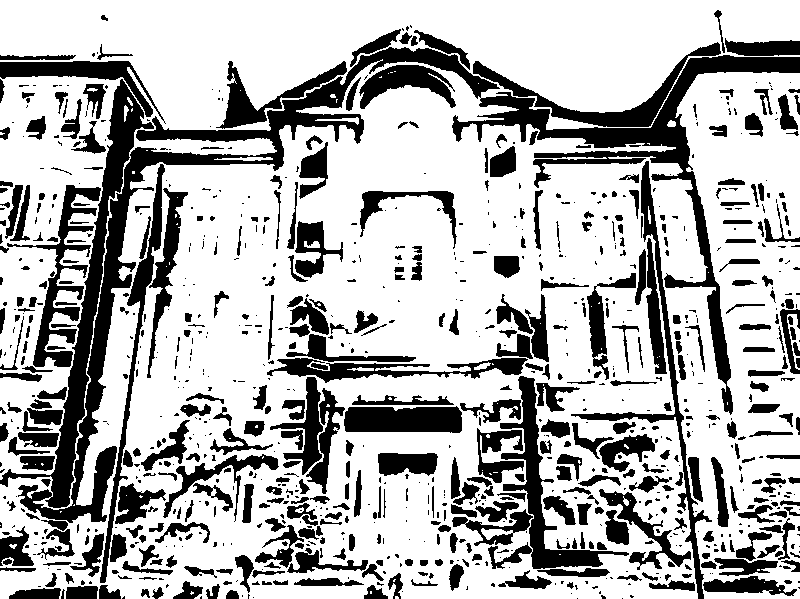
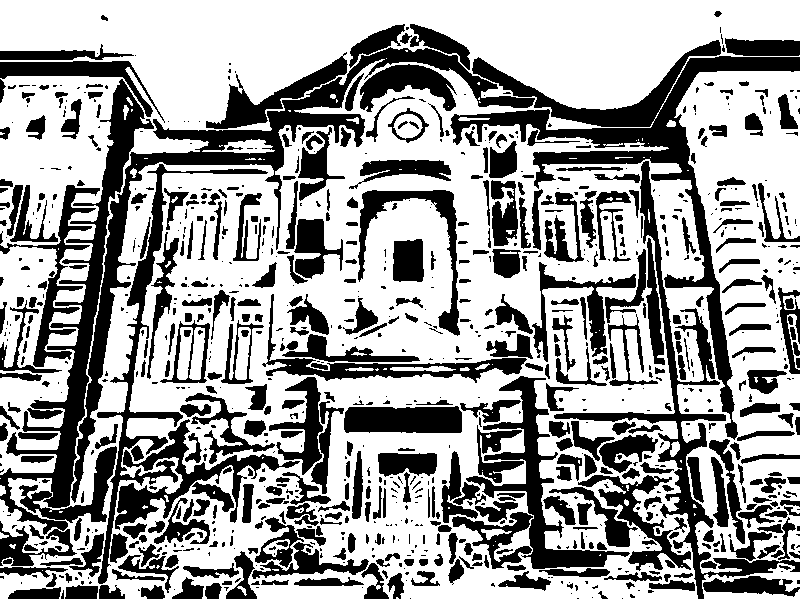
Histogram equalization. Add skytree

diff --git a/photo2tactile.py b/photo2tactile.py
@@ -8,16 +8,19 @@ ap.add_argument('-i', '--image', required=True, help='Input: image file path')
 ap.add_argument('-o', '--output', required=False, help='Output: tactile image file path')
 args = ap.parse_args()
 
-# Read image
+# Read image, grayscale, equalize
+# https://docs.opencv.org/3.4.3/d4/d1b/tutorial_histogram_equalization.html
 image = cv2.imread(args.image)
+image_grayscaled = cv2.cvtColor(image, cv2.COLOR_BGR2GRAY)
+image_equalized = cv2.equalizeHist(image_grayscaled)
 
 # Fine-grained saliency detection from
 # Sebastian Montabone and Alvaro Soto.
 # Human detection using a mobile platform and novel features derived from a visual saliency mechanism.
 # In Image and Vision Computing, Vol. 28 Issue 3, pages 391–402. Elsevier, 2010.
-# See https://docs.opencv.org/3.2.0/da/dd0/classcv_1_1saliency_1_1StaticSaliencyFineGrained.html
+# https://docs.opencv.org/3.4.3/da/dd0/classcv_1_1saliency_1_1StaticSaliencyFineGrained.html
 fine_saliency = cv2.saliency.StaticSaliencyFineGrained_create()
-_, fine_saliency_map = fine_saliency.computeSaliency(image)
+_, fine_saliency_map = fine_saliency.computeSaliency(image_equalized)
 
 # Scale the values to [0, 255]
 fine_saliency_map = (fine_saliency_map * 255).astype('uint8')

diff --git a/README.md b/README.md
@@ -6,6 +6,7 @@ This project is done as part of the [Machine Learning Tokyo](https://machinelear
 ## Photo Credits
 * Jessica A Paje, https://en.japantravel.com/tokyo/tokyo-station-celebrates-100-years/17770.
 * https://travel.gaijinpot.com/tokyo-tower/
+* https://commons.wikimedia.org/wiki/File:Tokyo_Skytree_2014_%E2%85%A2.jpg
 
 ## References
 * [Tactile Images Give Visually Impaired Access To Earth From The Air](https://www.culture24.org.uk/sector-info/art17622).
